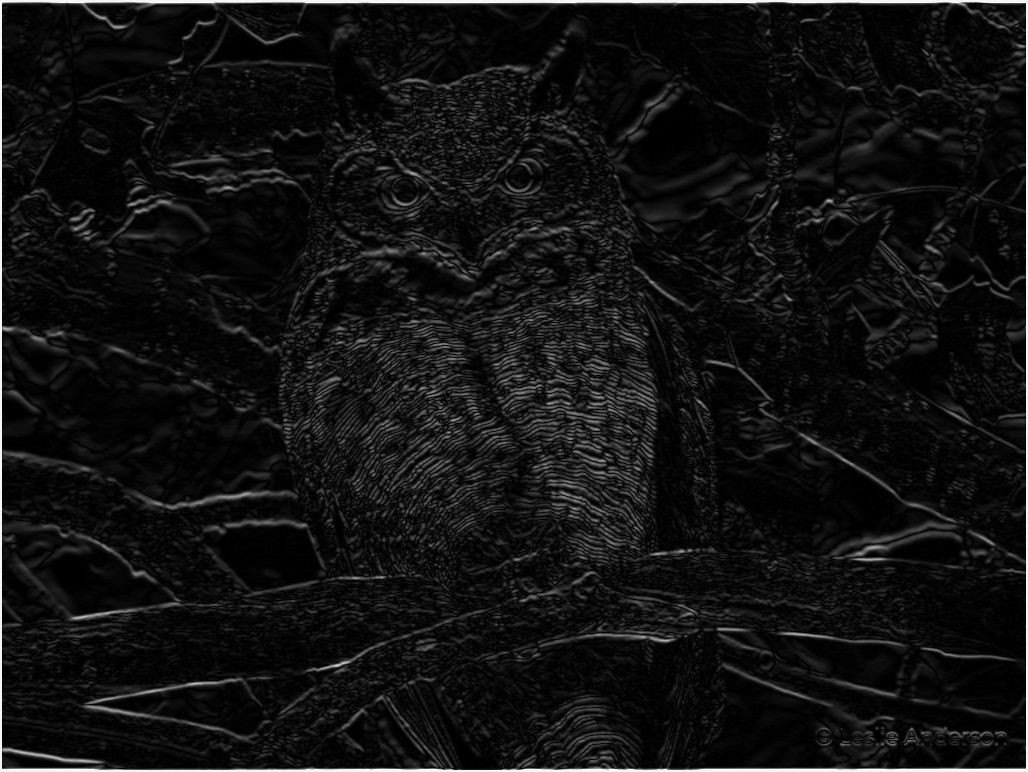
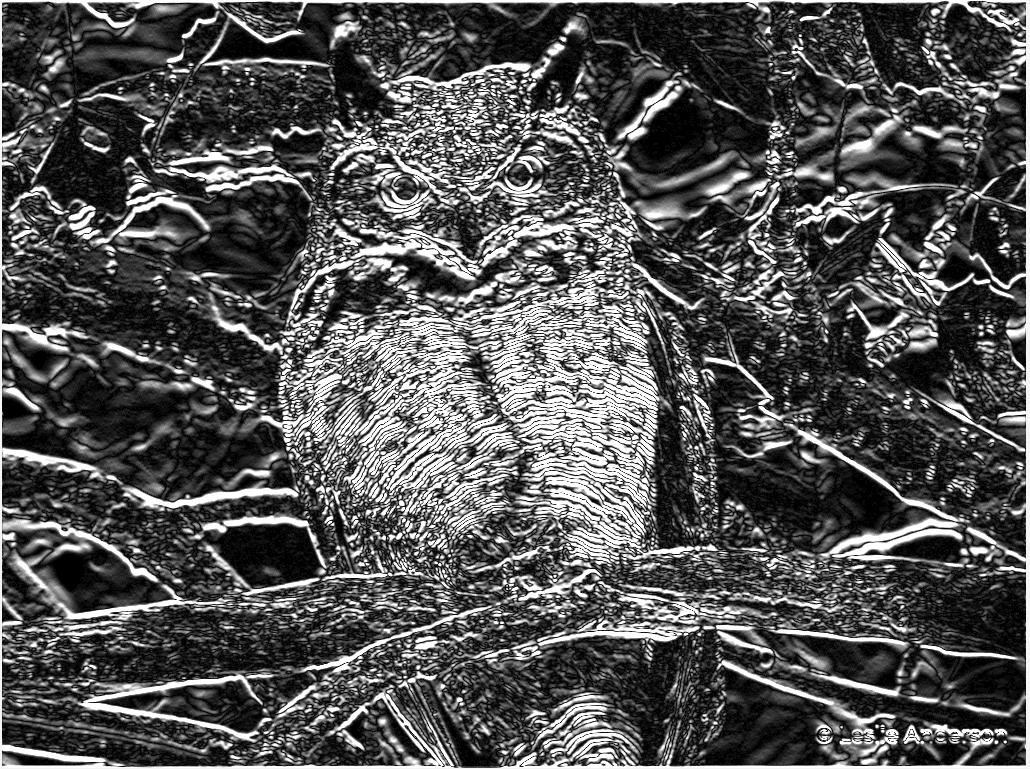
fix sobel filter

diff --git a/src/main.rs b/src/main.rs
@@ -103,7 +103,7 @@ fn bytes_to_grayscale(src: &[u8], px_width: usize) -> Vec<u8> {
     dst
 }
 
-const KERNEL_RADIUS: i32 = 3;
+const KERNEL_RADIUS: i32 = 2;
 const KERNEL_SIZE: usize = (KERNEL_RADIUS * 2 + 1) as usize;
 
 // assumes grayscale has been applied
@@ -209,7 +209,8 @@ fn sobel_filter(src: &[u8], image_width: i32) -> Vec<u8> {
                 continue;
             }
 
-            new_pixel *= kernel_value;
+            let npx = new_pixel * kernel_value;
+            new_pixel += npx;
         }
 
         dst[px * 2] = new_pixel.unsigned_abs() as u8;
@@ -241,7 +242,8 @@ fn sobel_filter(src: &[u8], image_width: i32) -> Vec<u8> {
                 continue;
             }
 
-            new_pixel *= kernel_value;
+            let npx = new_pixel * kernel_value;
+            new_pixel += npx;
         }
 
         let ndst = ((dst[py * 2] as u32).pow(2) + new_pixel.unsigned_abs().pow(2)) as f32;
